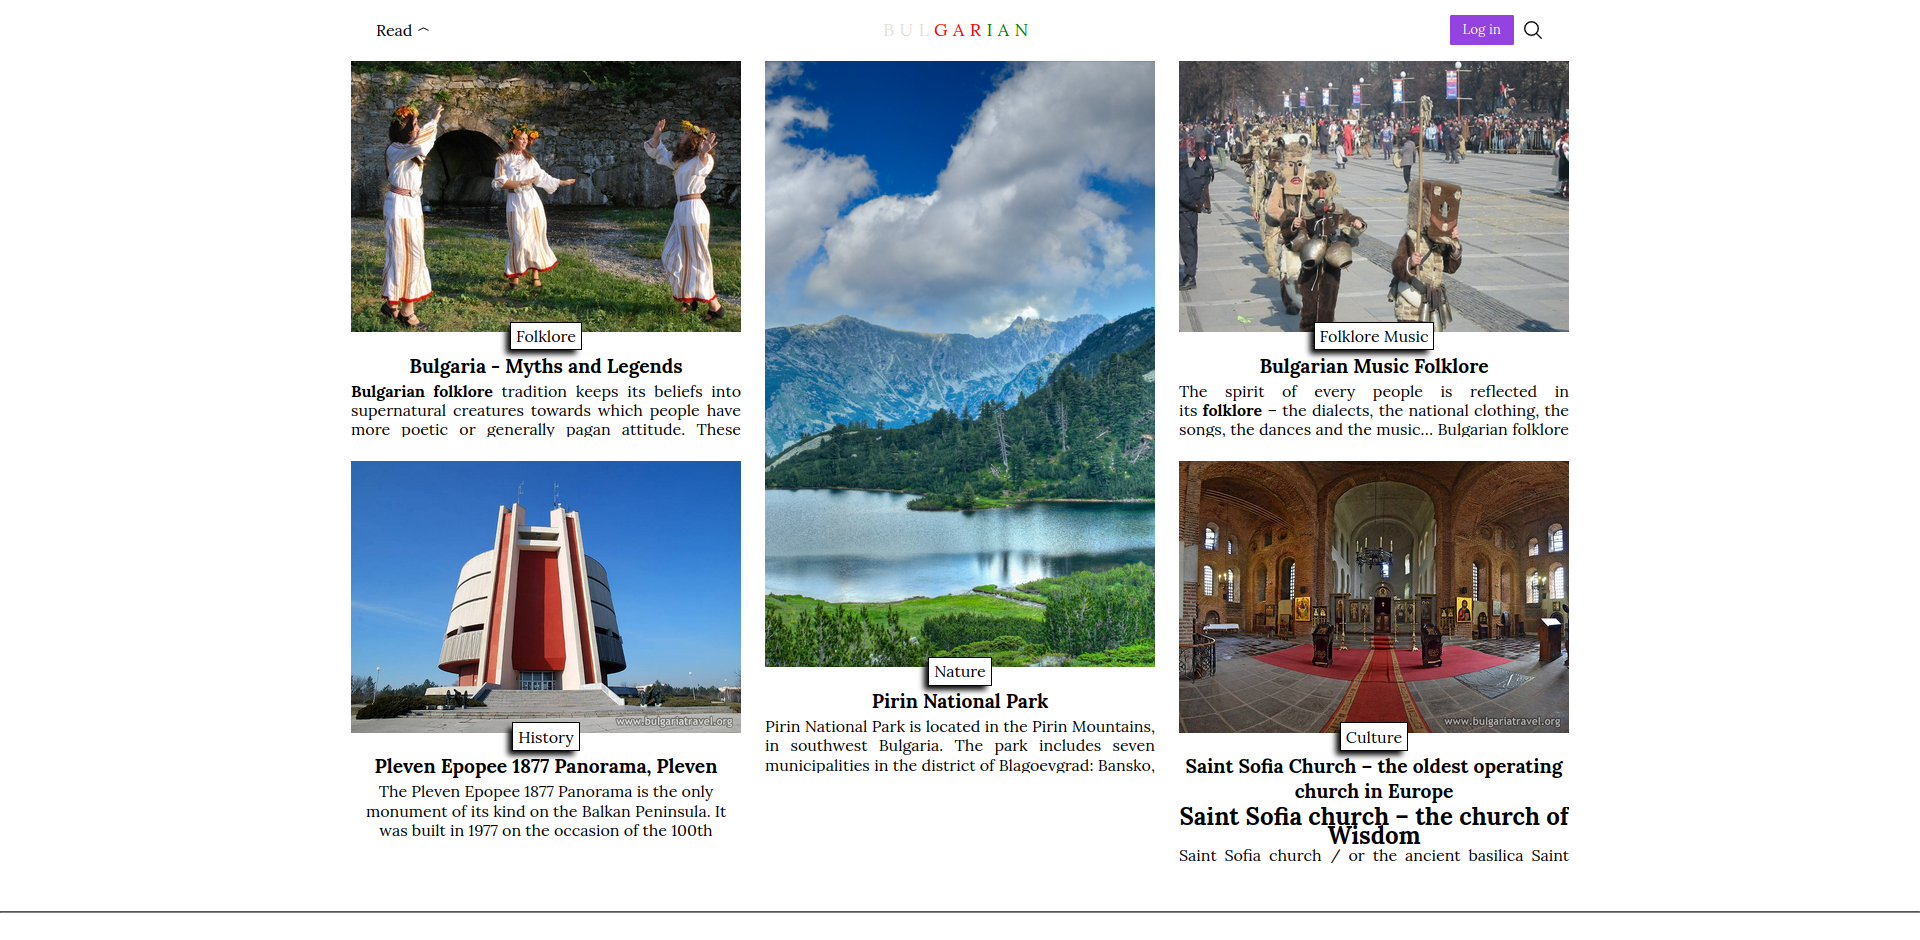
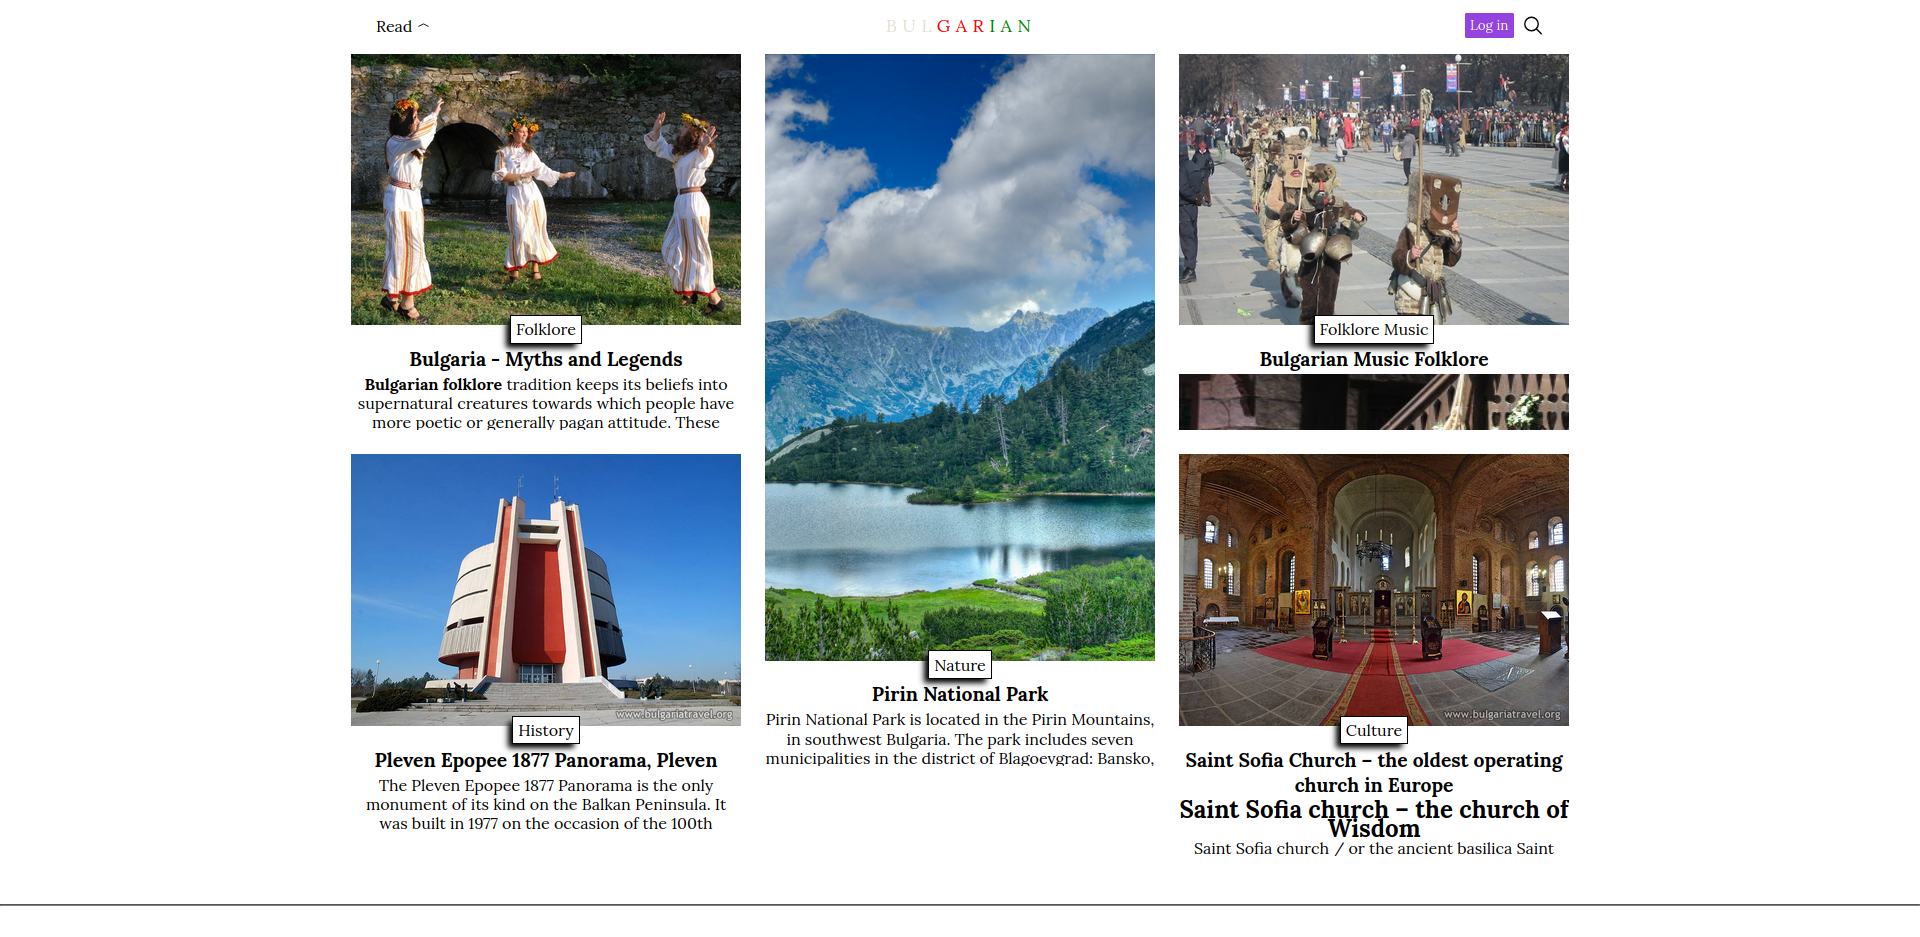
Added margin-left to the containers to make it look like a waterfall, and fixed some minor CSS styling

Changed region(s): [[0.1562, 0.0, 0.8438, 0.9285], [0.0, 0.9594, 1.0, 0.9904]]

diff --git a/src/components/Projects.jsx b/src/components/Projects.jsx
@@ -107,7 +107,7 @@ export function Projects() {
           <div className={styles.projectAnchorContainer}>
             <a
               className={styles.projectAnchorCode}
-              href="https://github.com/Preslav977/wemessage-frontend"
+              href="https://github.com/Preslav977/where-is-everyone-frontend"
               target="_blank"
             >
               Review the code
@@ -115,7 +115,7 @@ export function Projects() {
 
             <a
               className={styles.projectAnchorLive}
-              href="https://wemessage-frontend-git-main-preslav977s-projects.vercel.app/login"
+              href="https://where-is-everyone-frontend.vercel.app/"
             >
               See it live
             </a>
@@ -164,7 +164,7 @@ export function Projects() {
           <div className={styles.projectAnchorContainer}>
             <a
               className={styles.projectAnchorCode}
-              href="https://github.com/Preslav977/wemessage-frontend"
+              href="https://github.com/Preslav977/blog-api-frontend"
               target="_blank"
             >
               Review the code
@@ -172,7 +172,7 @@ export function Projects() {
 
             <a
               className={styles.projectAnchorLive}
-              href="https://wemessage-frontend-git-main-preslav977s-projects.vercel.app/login"
+              href="https://blog-api-frontend-lime.vercel.app/"
             >
               See it live
             </a>
@@ -186,8 +186,8 @@ export function Projects() {
           src="./shopping-cart.png"
           alt="shopping cart project"
         />
-        <di className={styles.projectImgAndTextContentContainer}>
-          <h5 className={styles.projectName}>WeMessage</h5>
+        <div className={styles.projectImgAndTextContentContainer}>
+          <h5 className={styles.projectName}>Shopping Cart</h5>
           <div className={styles.projectCreatedWithContainer}>
             <img
               className={styles.createdWithSvg}
@@ -197,16 +197,15 @@ export function Projects() {
           </div>
           <div className={styles.projectDescriptionContainer}>
             <p className={styles.projectDescription}>
-              Full-stack messaging app where you can communicate with all users
-              in one global chat, create your own 1:1 chat with a user, and
-              create groups with other users.
+              E-commerce clothes shop that you can buy products, filter them by
+              category and remove them from the cart
             </p>
           </div>
 
           <div className={styles.projectAnchorContainer}>
             <a
               className={styles.projectAnchorCode}
-              href="https://github.com/Preslav977/wemessage-frontend"
+              href="https://github.com/Preslav977/shopping-cart"
               target="_blank"
             >
               Review the code
@@ -214,12 +213,12 @@ export function Projects() {
 
             <a
               className={styles.projectAnchorLive}
-              href="https://wemessage-frontend-git-main-preslav977s-projects.vercel.app/login"
+              href="https://shopping-cart-red-seven.vercel.app/"
             >
               See it live
             </a>
           </div>
-        </di>
+        </div>
       </div>
     </section>
   );

diff --git a/src/components/Projects.module.css b/src/components/Projects.module.css
@@ -4,20 +4,42 @@
   grid-template-rows: auto;
   justify-content: center;
   align-items: center;
+  padding: 1em;
+  gap: 5em;
 }
 
 .projectsFlexedContentContainer {
-  outline: 2px solid black;
   display: flex;
   justify-content: center;
   align-items: center;
   gap: 0.5em;
-  height: 400px;
+  max-height: 400px;
+}
+
+.projectsFlexedContentContainer:first-child {
+  margin-left: 50px;
+}
+
+.projectsFlexedContentContainer:nth-child(2) {
+  margin-left: 100px;
+}
+
+.projectsFlexedContentContainer:nth-child(3) {
+  margin-left: 150px;
+}
+
+.projectsFlexedContentContainer:last-child {
+  margin-left: 200px;
 }
 
 .projectImage {
   max-width: 35rem;
   object-fit: contain;
+  filter: grayscale(100%);
+}
+
+.projectImage:hover {
+  filter: none;
 }
 
 .projectImgAndTextContentContainer {
@@ -56,8 +78,37 @@
   margin-top: 0.5em;
 }
 
-@media screen and (max-width: 1125px) {
-  /* .projectsFlexedContainer {
+@media screen and (max-width: 1100px) {
+  .projectsFlexedContentContainer {
     flex-direction: column;
-  } */
+    max-height: fit-content;
+    margin-bottom: 1.5em;
+    margin-left: 0;
+  }
+
+  .projectsFlexedContentContainer:first-child {
+    margin-left: 0;
+  }
+
+  .projectsFlexedContentContainer:nth-child(2) {
+    margin-left: 0;
+  }
+
+  .projectsFlexedContentContainer:nth-child(3) {
+    margin-left: 0;
+  }
+
+  .projectsFlexedContentContainer:last-child {
+    margin-left: 0;
+  }
+}
+
+@media screen and (max-width: 600px) {
+  .projectImage {
+    max-width: 100%;
+  }
+
+  .projectImgAndTextContentContainer {
+    max-width: 100%;
+  }
 }
